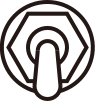
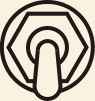
feat(ui): 拨杆改用独立图层（底图删除画死的拨杆）+ LED 用指定色
- assets/panel.svg: 底图里用底色覆盖掉原来画死的拨杆（含下方残留弧段），
  运行时不再需要盖布 → 无重影、无透明边缘脏点
- assets/switch_{up,down}@4x.png: 用 --export-background 导出为**不透明**，
  修掉此前忽略 alpha 导致的黑色边缘（看起来糙的真正原因）
- 拨杆按住时以中心缩放 0.9 倍，点击区域 = 两种状态贴图的并集矩形
- LED: 暗 #a00000 → 亮 #ff0000 线性插值

diff --git a/crates/rustomp-plugin/src/lib.rs b/crates/rustomp-plugin/src/lib.rs
@@ -100,9 +100,8 @@ mod ui {
     pub const MODE_SW_XY: (f32, f32) = (73.49, 108.455);
     pub const MODE_SW_W: f32 = 23.68;
     pub const MODE_SW_H: f32 = 25.21;
-    /// 贴图前先用底色盖住面板里画死的那个开关
-    pub const MODE_SW_COVER: (f32, f32, f32, f32) = (71.0, 106.0, 28.5, 30.5);
-    pub const MODE_SW_CENTER: (f32, f32) = (85.33, 121.8);
+    /// 点击区域 = 两种状态贴图的并集（两者 viewBox 相同，即同一个矩形）
+    pub const MODE_SW_CENTER: (f32, f32) = (85.33, 121.6);
 
     /// 下方大开关 = bypass
     pub const BYPASS_SW: (f32, f32) = (85.33, 236.17);
@@ -361,23 +360,28 @@ fn draw_panel(
     let white = egui::Color32::from_rgb(0xf5, 0xf5, 0xf5);
     let dark = egui::Color32::from_rgb(0x23, 0x18, 0x15);
 
-    // ---- 削波模式开关：先盖住面板里画死的那个，再贴对应状态 ----
-    let cover = ui::MODE_SW_COVER;
-    painter.rect_filled(
-        egui::Rect::from_min_size(
-            to_screen((cover.0, cover.1)),
-            egui::vec2(cover.2 * scale, cover.3 * scale),
-        ),
-        0.0,
-        egui::Color32::from_rgb(0xfa, 0xf1, 0xe0),
-    );
+    // ---- 削波模式开关：面板底图里已经删掉了原来画死的拨杆 ----
     let sym = params.symmetric.value();
     let sw_tex = if sym { &state.sw_down } else { &state.sw_up };
+    let sw_rect = egui::Rect::from_min_size(
+        to_screen(ui::MODE_SW_XY),
+        egui::vec2(ui::MODE_SW_W * scale, ui::MODE_SW_H * scale),
+    );
+    // 按下反馈：半径缩到 0.9 倍（以开关中心为原点）
+    let sw_pressed = ui
+        .ctx()
+        .is_pointer_over_area()
+        && ui.input(|i| i.pointer.primary_down())
+        && sw_rect_contains(&sw_rect, ui);
+    let sw_draw = if sw_pressed {
+        egui::Rect::from_center_size(sw_rect.center(), sw_rect.size() * 0.9)
+    } else {
+        sw_rect
+    };
     if let Some(t) = sw_tex {
-        let p0 = to_screen(ui::MODE_SW_XY);
         painter.image(
             t.id(),
-            egui::Rect::from_min_size(p0, egui::vec2(ui::MODE_SW_W * scale, ui::MODE_SW_H * scale)),
+            sw_draw,
             egui::Rect::from_min_max(egui::pos2(0.0, 0.0), egui::pos2(1.0, 1.0)),
             egui::Color32::WHITE,
         );
@@ -391,20 +395,13 @@ fn draw_panel(
     if bypassed {
         painter.circle_filled(led_c, led_r, egui::Color32::from_rgb(0x8a, 0x86, 0x80));
     } else {
-        // 灭 = 很暗的红；亮 = 接近纯红 + 外发光，拉开对比
+        // 灭 = #a00000，亮 = #ff0000（线性插值）
         let t = level.clamp(0.0, 1.0);
         let base = egui::Color32::from_rgb(
-            (58.0 + 197.0 * t) as u8,
-            (2.0 + 70.0 * t * t) as u8,
-            (8.0 + 58.0 * t * t) as u8,
+            (0xa0 as f32 + (0xff - 0xa0) as f32 * t) as u8,
+            0,
+            0,
         );
-        if t > 0.02 {
-            painter.circle_filled(
-                led_c,
-                led_r * (1.0 + 1.1 * t),
-                egui::Color32::from_rgba_unmultiplied(255, 70, 50, (70.0 * t) as u8),
-            );
-        }
         painter.circle_filled(led_c, led_r, base);
     }
 
@@ -452,16 +449,7 @@ fn draw_panel(
     do_knob(ui, gain_c, "gain", &params.gain);
 
     // ---- 削波模式开关：点击切换（视觉由上面的贴图负责）----
-    let sw_c = to_screen(ui::MODE_SW_CENTER);
-    let sw_hit = egui::vec2(
-        ui::MODE_SW_W * scale * 1.15,
-        ui::MODE_SW_H * scale * 1.15,
-    );
-    let sw = ui.interact(
-        egui::Rect::from_center_size(sw_c, sw_hit),
-        ui.id().with("mode"),
-        egui::Sense::click(),
-    );
+    let sw = ui.interact(sw_rect, ui.id().with("mode"), egui::Sense::click());
     if sw.clicked() {
         setter.set_parameter(&params.symmetric, !params.symmetric.value());
     }
@@ -506,6 +494,14 @@ fn draw_panel(
         }
     }
     let _ = dark;
+}
+
+/// 指针是否落在某个矩形内（用于按下反馈）
+fn sw_rect_contains(rect: &egui::Rect, ui: &egui::Ui) -> bool {
+    ui.ctx()
+        .input(|i| i.pointer.hover_pos())
+        .map(|p| rect.contains(p))
+        .unwrap_or(false)
 }
 
 /// 解码内嵌 PNG 并缩放到目标像素尺寸（`h == 0` 时按原比例推算）。
